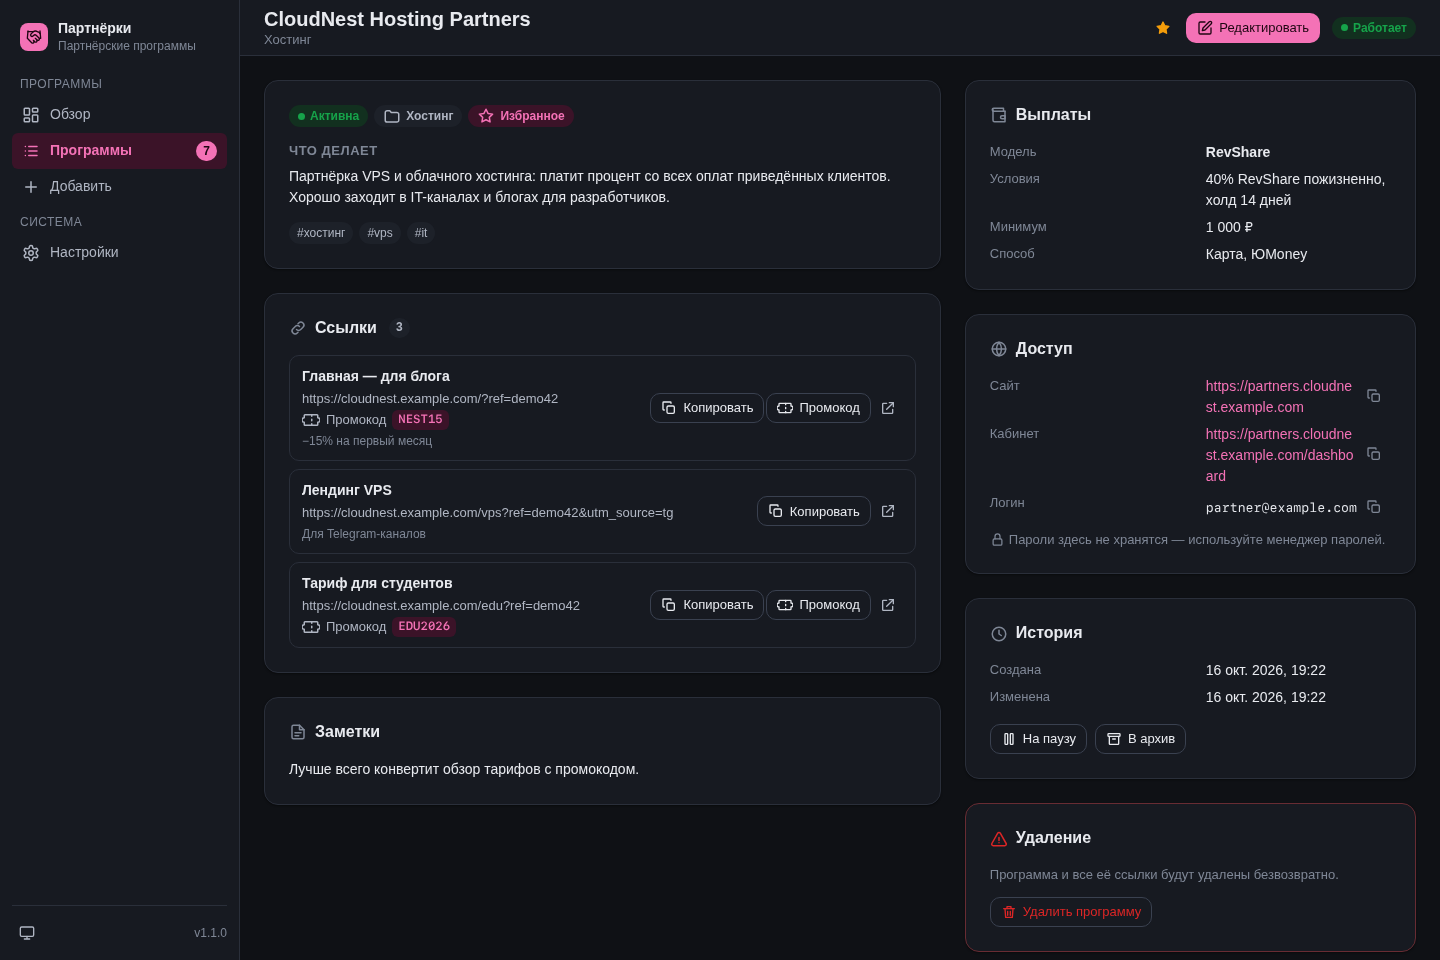
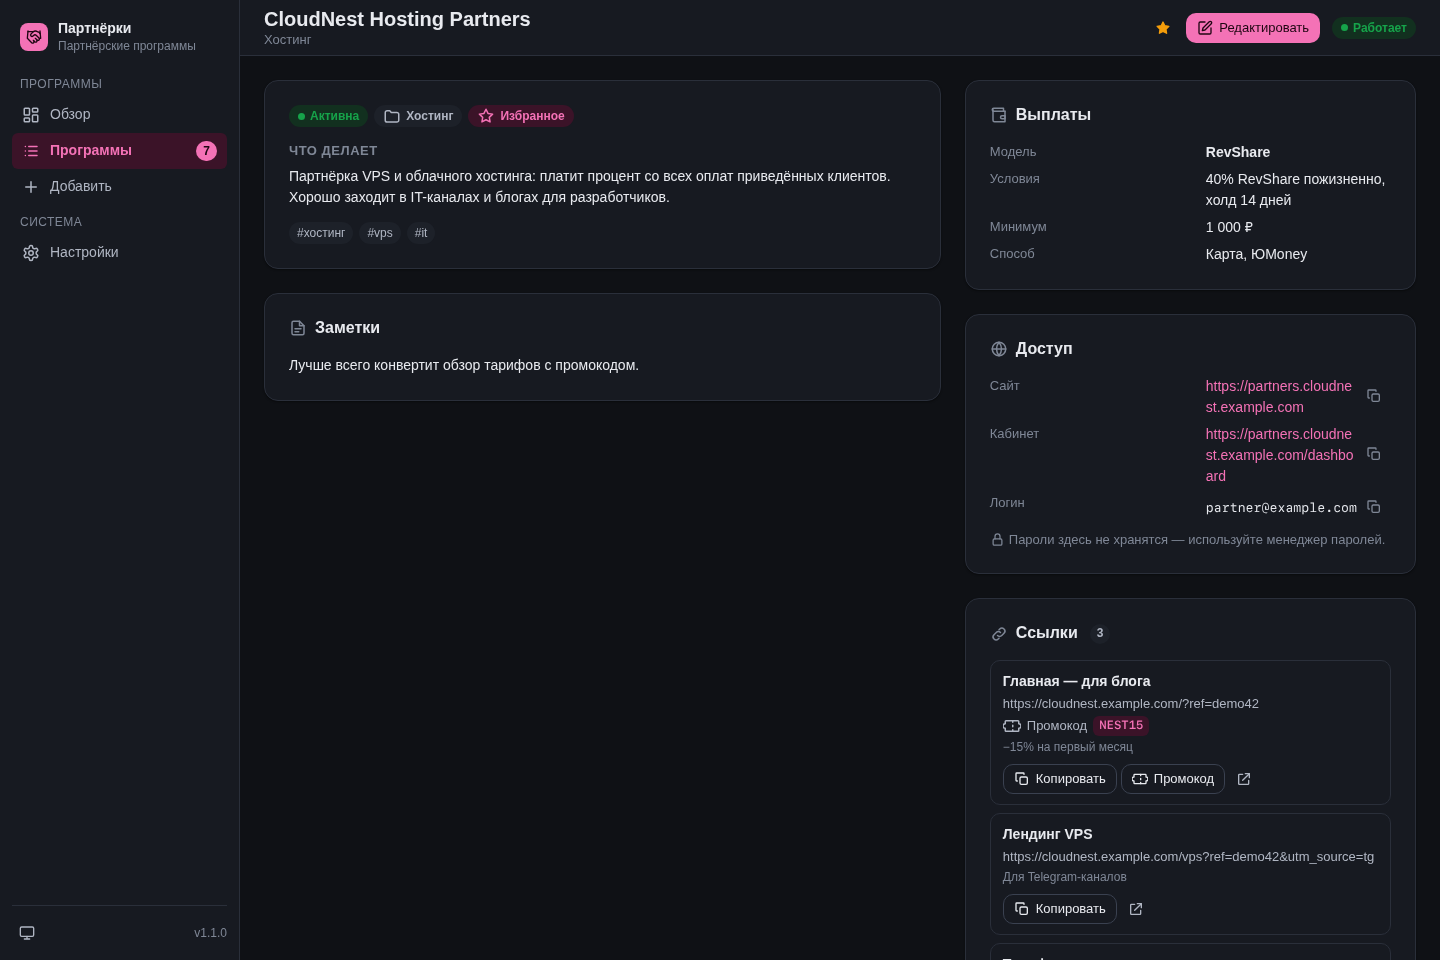
Карточка программы: «Ссылки» в правой колонке под «Доступом»
В узкой колонке кнопки встают под ссылку, длинный URL переносится целиком.

diff --git a/app/web/static/app.js b/app/web/static/app.js
@@ -1040,10 +1040,6 @@
             ${p.description ? `<h2 class="small muted" style="margin:16px 0 6px;font-weight:600;text-transform:uppercase;letter-spacing:.04em">Что делает</h2><p class="text-block">${esc(p.description)}</p>` : '<p class="muted" style="margin-top:12px">Описание не заполнено.</p>'}
             ${tagList(p.tags, false) ? `<div style="margin-top:14px">${tagList(p.tags, false)}</div>` : ''}
           </section>
-          <section class="card">
-            <div class="card-head"><h2>${icon('link')}Ссылки <span class="count">${fmtNum(links.length)}</span></h2></div>
-            ${links.length ? `<ul class="links-list">${links.map(linkItem).join('')}</ul>` : `<div class="empty"><div class="empty-icon">${icon('link')}</div><h3>Ссылок пока нет</h3><p>Добавьте реферальные ссылки и промокоды в редакторе программы.</p><div class="empty-actions"><a class="btn btn-secondary btn-sm" href="#/programs/${p.id}/edit">${icon('plus')}<span>Добавить ссылки</span></a></div></div>`}
-          </section>
           ${p.notes ? `<section class="card"><div class="card-head"><h2>${icon('note')}Заметки</h2></div><p class="text-block">${esc(p.notes)}</p></section>` : ''}
         </div>
         <div class="col">
@@ -1064,6 +1060,10 @@
               ${kvRow('Логин', p.login ? `<span class="inline-copy"><span class="mono">${esc(p.login)}</span><button type="button" class="icon-btn sm" data-action="copy" data-text="${esc(p.login)}" data-what="Логин" aria-label="Копировать" title="Копировать">${icon('copy')}</button></span>` : '')}
             </dl>` : '<p class="muted">Сайт и кабинет не указаны.</p>'}
             <p class="hint">${icon('lock')}Пароли здесь не хранятся — используйте менеджер паролей.</p>
+          </section>
+          <section class="card">
+            <div class="card-head"><h2>${icon('link')}Ссылки <span class="count">${fmtNum(links.length)}</span></h2></div>
+            ${links.length ? `<ul class="links-list">${links.map(linkItem).join('')}</ul>` : `<div class="empty"><div class="empty-icon">${icon('link')}</div><h3>Ссылок пока нет</h3><p>Добавьте реферальные ссылки и промокоды в редакторе программы.</p><div class="empty-actions"><a class="btn btn-secondary btn-sm" href="#/programs/${p.id}/edit">${icon('plus')}<span>Добавить ссылки</span></a></div></div>`}
           </section>
           <section class="card">
             <div class="card-head"><h2>${icon('clock')}История</h2></div>

diff --git a/app/web/static/style.css b/app/web/static/style.css
@@ -884,6 +884,10 @@ button.tag:hover { background: var(--accent-soft); color: var(--accent); }
 .link-promo code { padding: 1px 6px; border-radius: var(--radius-sm); background: var(--accent-soft); color: var(--accent); font-weight: 600; }
 .link-note { color: var(--text-3); font-size: var(--fs-xs); overflow-wrap: anywhere; }
 .link-actions { display: inline-flex; gap: 2px; }
+/* The program page shows links in the narrow right column: buttons go under the link, the URL wraps whole. */
+.prog-page .link-item { grid-template-columns: minmax(0, 1fr); align-items: start; }
+.prog-page .link-url { white-space: normal; overflow-wrap: anywhere; }
+.prog-page .link-actions { flex-wrap: wrap; gap: 4px; margin-top: 4px; }
 .danger-zone { border-color: color-mix(in srgb, var(--danger) 35%, var(--border)); }
 .danger-zone h2 .i { color: var(--danger); }
 
